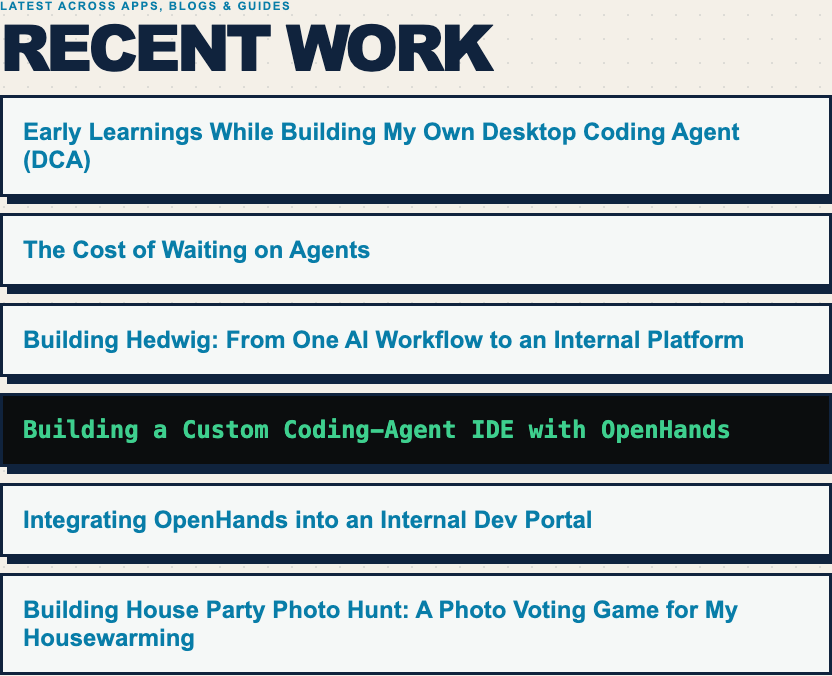
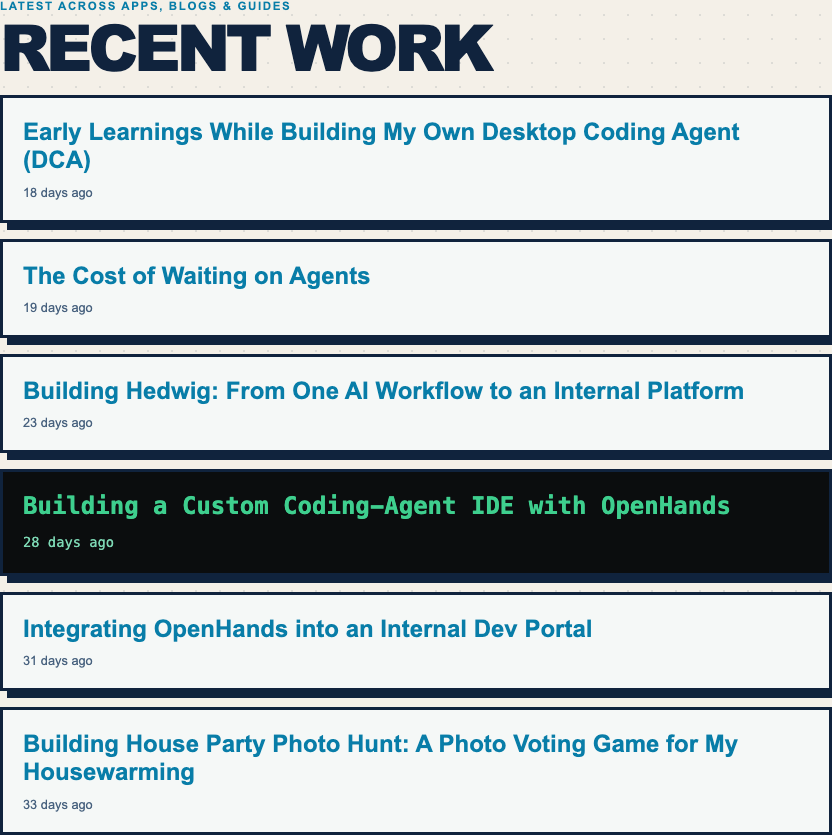
Show relative calendar dates on Recent Work cards

Changed region(s): [[0.0, 0.0, 1.0, 0.6524], [0.0, 0.6834, 1.0, 1.0]]

diff --git a/src/routes/HomeRoute.tsx b/src/routes/HomeRoute.tsx
@@ -10,6 +10,7 @@ import { getAllGuides } from '../features/guides/content'
 import styles from '../App.module.css'
 import BlogFeedCard from '../features/blog/components/BlogFeedCard'
 import { getBlogFeed } from '../features/blog/feed'
+import RelativeDate from '../components/relative-date/RelativeDate'
 import appStyles from '../features/apps/apps.module.css'
 
 type RecentItem = {
@@ -127,13 +128,14 @@ export default function HomeRoute(): ReactElement {
           <div className={styles.recentGrid}>
             {recentItems.map((item) => {
               const post = feed.find((entry) => entry.href === item.href)
-              if (post) return <BlogFeedCard key={item.key} post={post} headingLevel={3} titleOnly />
+              if (post) return <BlogFeedCard key={item.key} post={post} headingLevel={3} titleOnly footer={<p className={styles.recentDate}><RelativeDate date={item.date} /></p>} />
 
               return (
                 <article className={appStyles.appCard} key={item.key}>
                   <h3>
                     {item.external ? <a href={item.href}>{item.title}</a> : <Link to={item.href}>{item.title}</Link>}
                   </h3>
+                  <p className={styles.recentDate}><RelativeDate date={item.date} /></p>
                 </article>
               )
             })}

diff --git a/src/features/blog/components/BlogFeedCard.tsx b/src/features/blog/components/BlogFeedCard.tsx
@@ -1,3 +1,4 @@
+import type { ReactNode } from 'react'
 import { Link } from 'react-router-dom'
 import TagList from '../../../components/markdown/TagList'
 import GuideRepoReference from '../../guides/components/GuideRepoReference'
@@ -11,9 +12,10 @@ interface Props {
   onTagClick?: (_tag: string) => void
   headingLevel?: 2 | 3
   titleOnly?: boolean
+  footer?: ReactNode
 }
 
-export default function BlogFeedCard({ post, selectedTags, onTagClick, headingLevel = 2, titleOnly = false }: Props) {
+export default function BlogFeedCard({ post, selectedTags, onTagClick, headingLevel = 2, titleOnly = false, footer }: Props) {
   const Heading = headingLevel === 3 ? 'h3' : 'h2'
   return (
             <article className={`${styles.postCard} ${post.kind === 'Guide' ? `${guideStyles.guideCard} ${styles.feedGuide}` : ''}`}>
@@ -38,6 +40,7 @@ export default function BlogFeedCard({ post, selectedTags, onTagClick, headingLe
                 styles={styles}
               />
               </>}
+              {footer}
             </article>
   )
 }

diff --git a/src/components/relative-date/RelativeDate.tsx b/src/components/relative-date/RelativeDate.tsx
@@ -1,0 +1,19 @@
+import { useEffect, useState } from 'react'
+
+export function relativeDayLabel(date: string, today = new Date()): string {
+  const [year, month, day] = date.split('-').map(Number)
+  const currentDay = Date.UTC(today.getFullYear(), today.getMonth(), today.getDate())
+  const days = Math.round((currentDay - Date.UTC(year, month - 1, day)) / 86400000)
+  if (days === 0) return 'Today'
+  if (days < 0) return `In ${-days} ${days === -1 ? 'day' : 'days'}`
+  return `${days} ${days === 1 ? 'day' : 'days'} ago`
+}
+
+export default function RelativeDate({ date }: { date: string }) {
+  const [today, setToday] = useState(() => new Date())
+  useEffect(() => {
+    const timer = window.setInterval(() => setToday(new Date()), 60_000)
+    return () => window.clearInterval(timer)
+  }, [])
+  return <time dateTime={date} title={date}>{relativeDayLabel(date, today)}</time>
+}

diff --git a/src/components/relative-date/RelativeDate.test.ts b/src/components/relative-date/RelativeDate.test.ts
@@ -1,0 +1,17 @@
+import { describe, expect, it } from 'vitest'
+import { relativeDayLabel } from './RelativeDate'
+
+describe('relative calendar dates', () => {
+  const today = new Date(2026, 8, 17, 0, 1)
+  it('formats today, singular and plural days', () => {
+    expect(relativeDayLabel('2026-09-17', today)).toBe('Today')
+    expect(relativeDayLabel('2026-09-16', today)).toBe('1 day ago')
+    expect(relativeDayLabel('2026-08-30', today)).toBe('18 days ago')
+  })
+  it('counts calendar days across daylight saving changes', () => {
+    expect(relativeDayLabel('2026-03-07', new Date(2026, 2, 9, 0, 1))).toBe('2 days ago')
+  })
+  it('handles future dates without negative days ago', () => {
+    expect(relativeDayLabel('2026-09-18', today)).toBe('In 1 day')
+  })
+})

diff --git a/src/routes/home-route.test.tsx b/src/routes/home-route.test.tsx
@@ -26,8 +26,9 @@ describe('home route recent work', () => {
     const articles = recentWork.querySelectorAll('article')
     expect(articles).toHaveLength(6)
     articles.forEach(card => {
-      expect(card.children).toHaveLength(1)
+      expect(card.children).toHaveLength(2)
       expect(card.firstElementChild?.tagName).toBe('H3')
+      expect(card.querySelector('time')).not.toBeNull()
     })
   })
 })

diff --git a/src/App.module.css b/src/App.module.css
@@ -97,3 +97,9 @@
     margin-top: 3rem;
   }
 }
+
+.recentDate {
+  margin: 0.65rem 0 0;
+  color: var(--term-accent-alt, var(--text-muted));
+  font-size: 0.8rem;
+}
